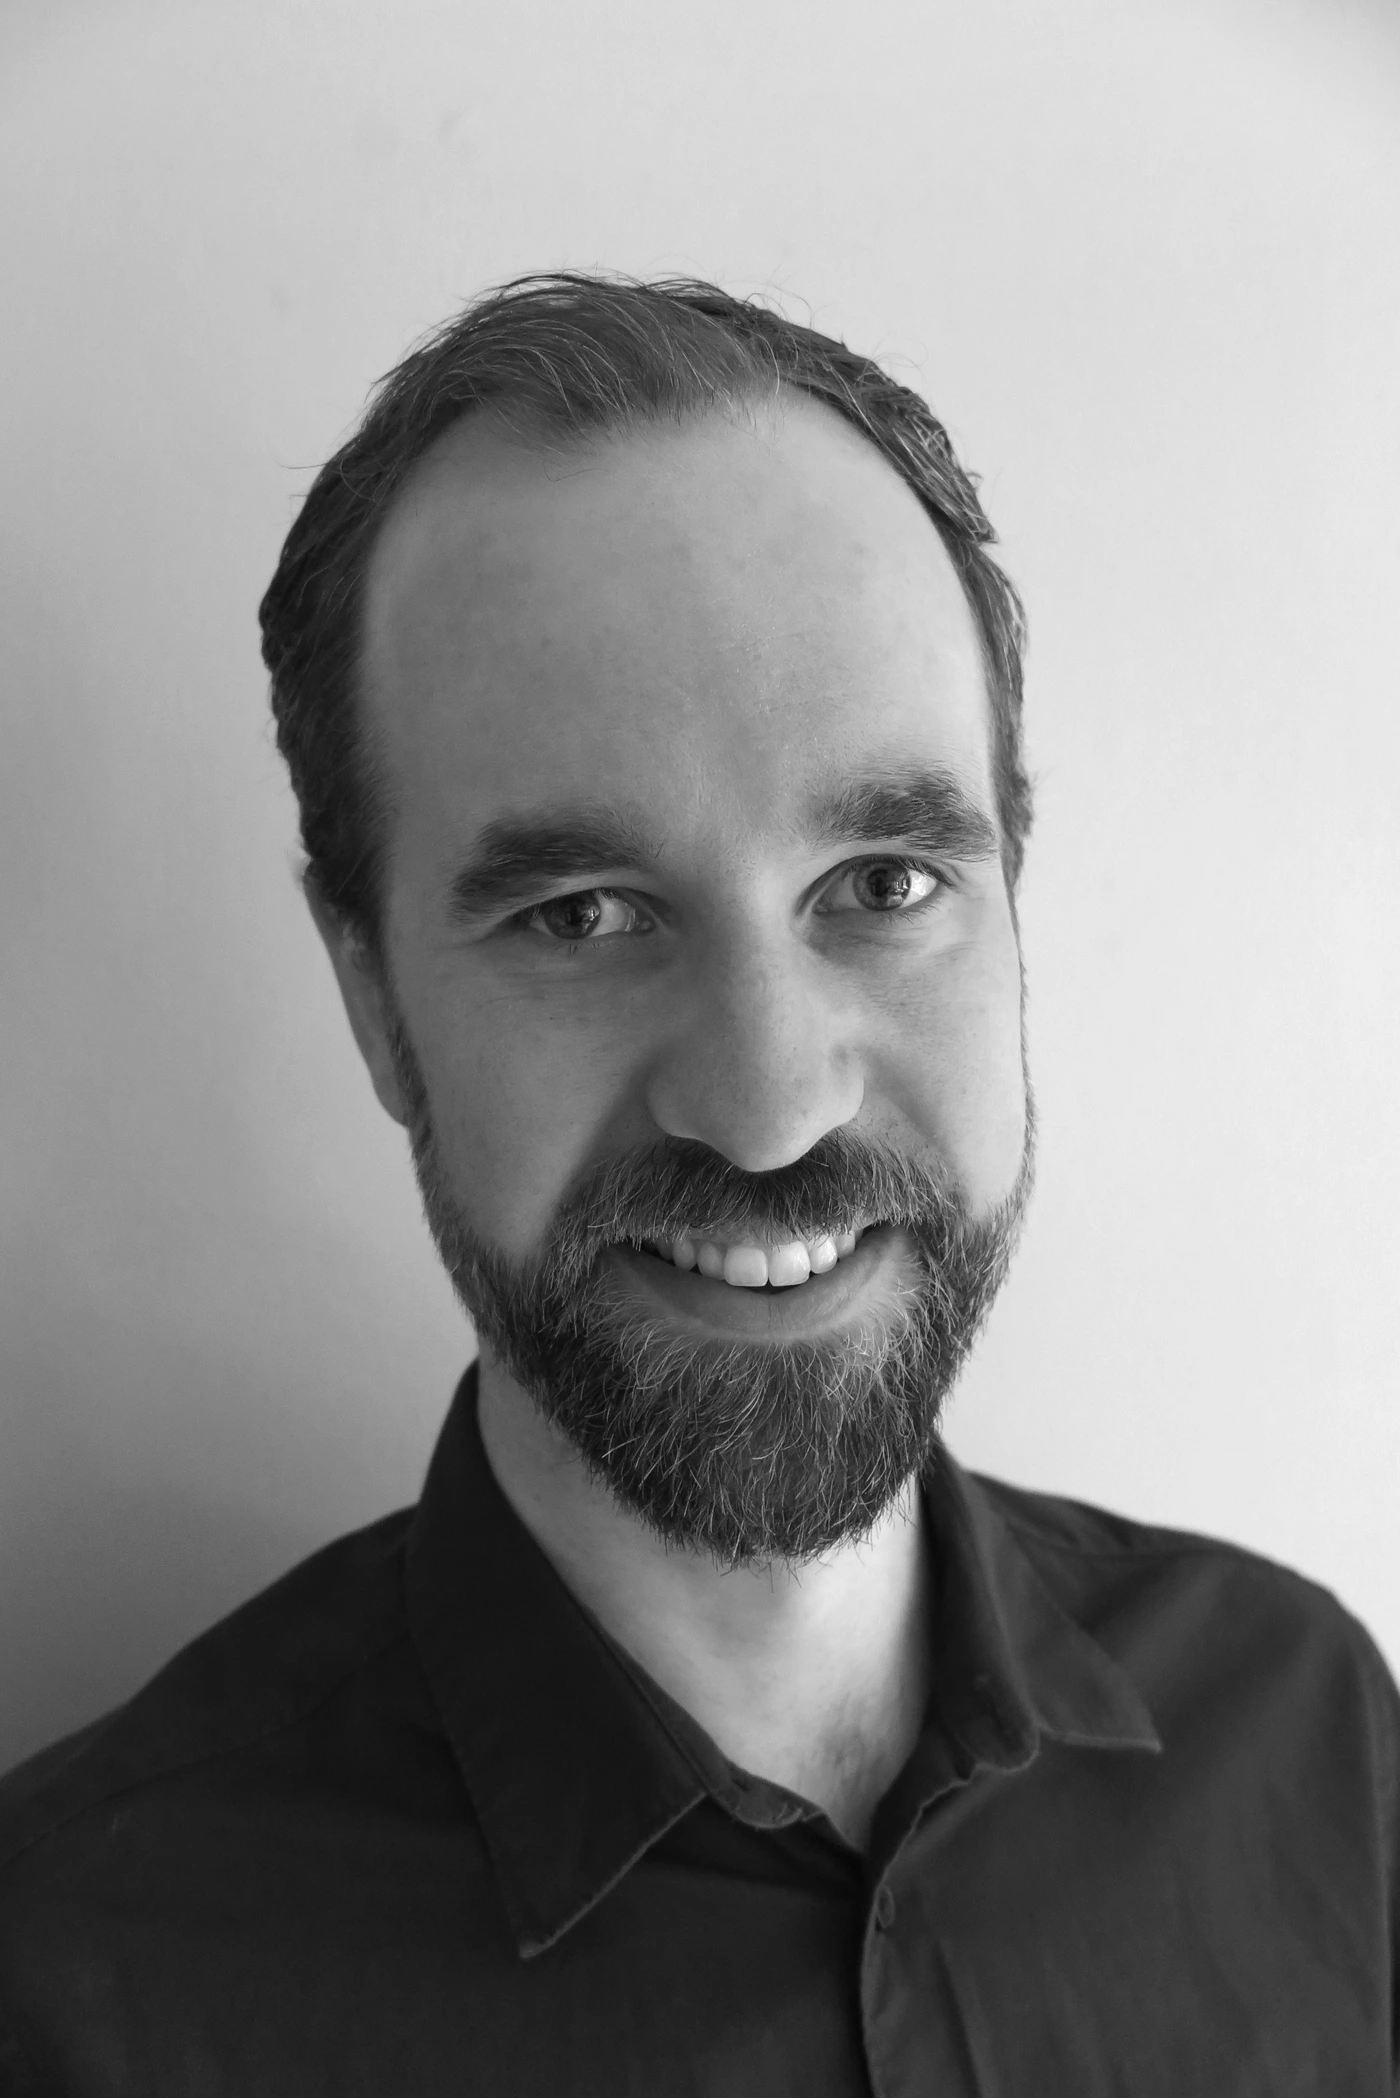
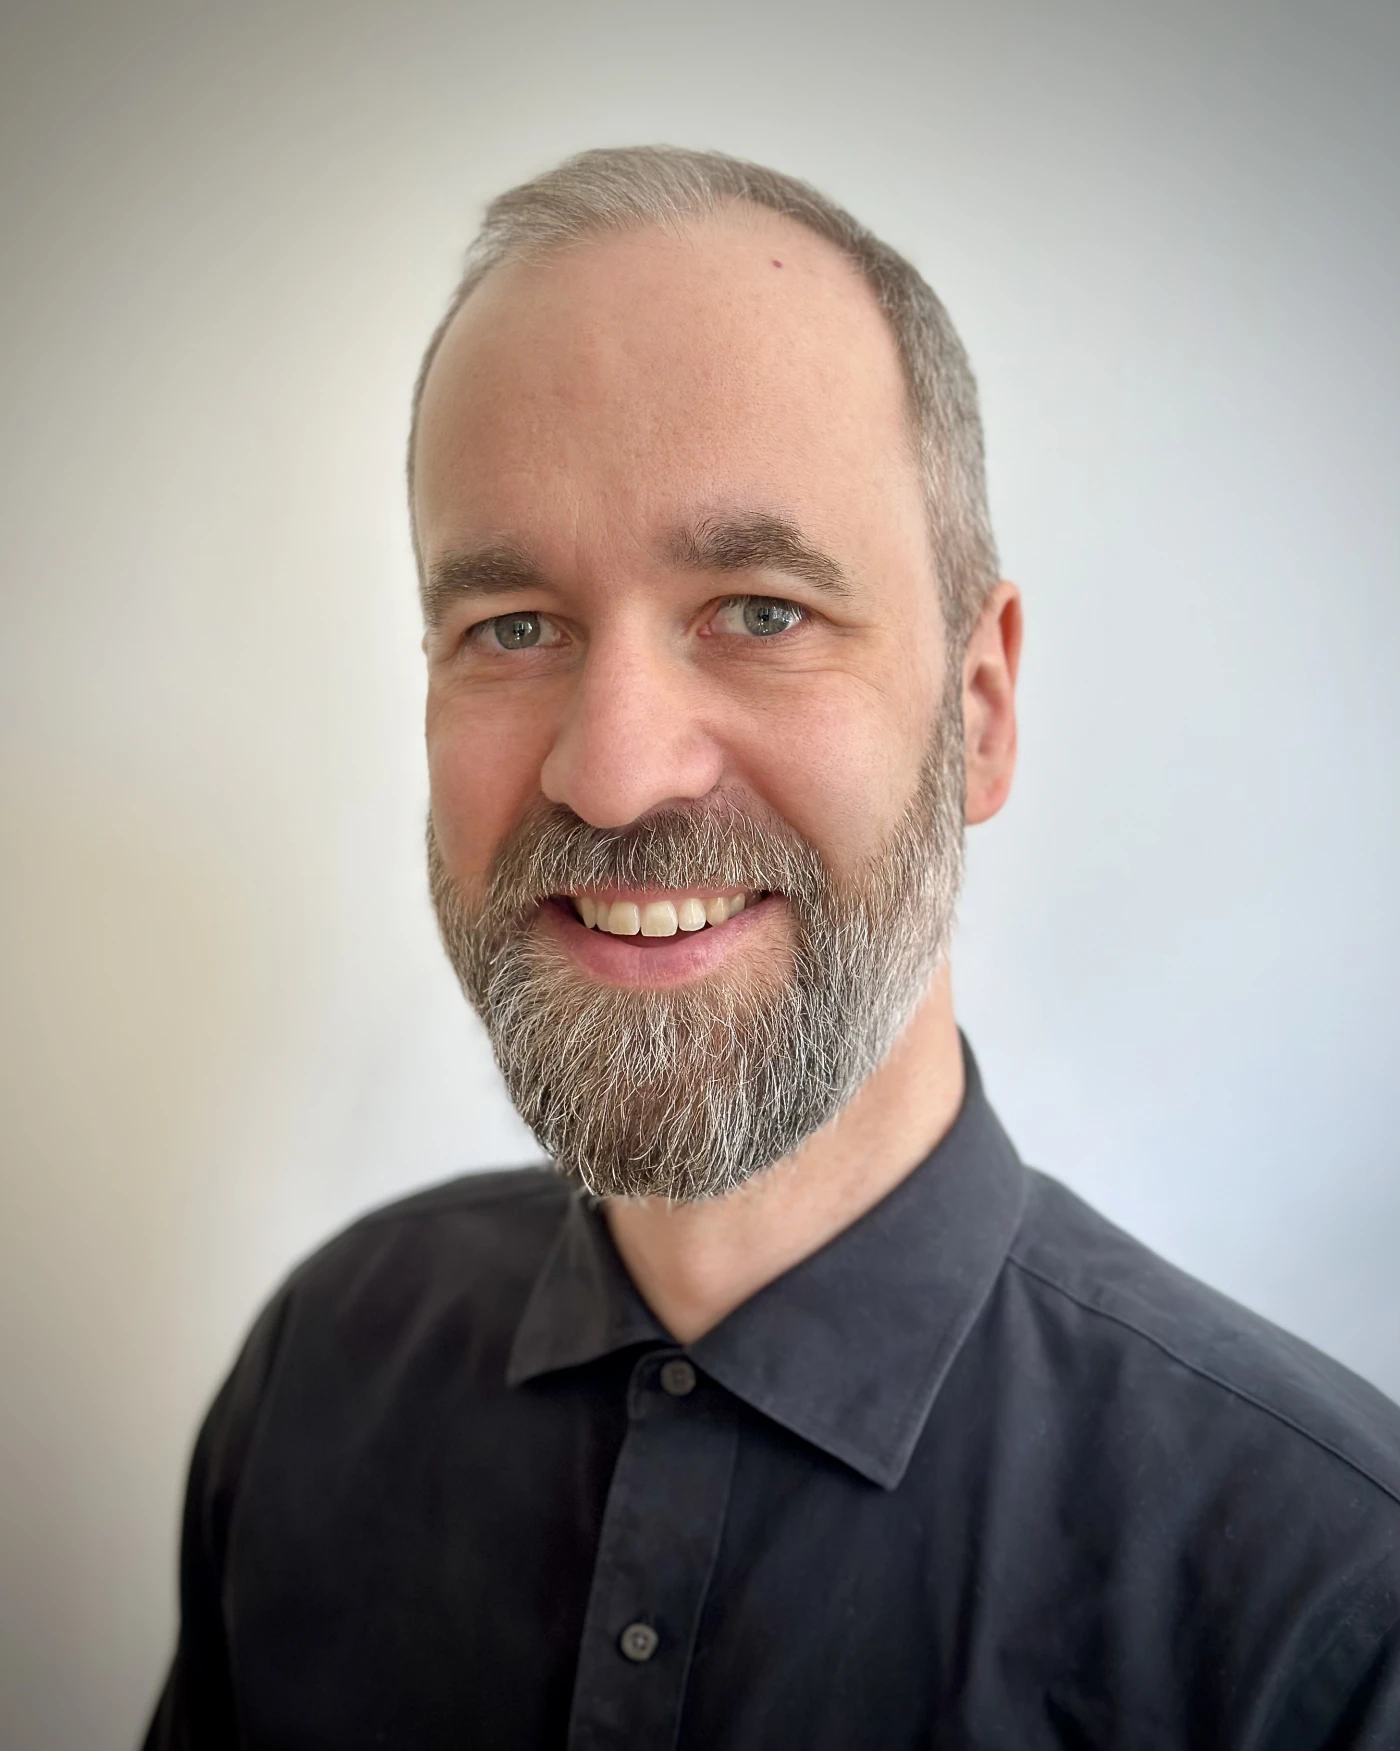
Updated Landing Page

diff --git a/index.html b/index.html
@@ -110,7 +110,7 @@
     <source media="(max-width: 800px)" srcset="/assets/img/prof_pic-800.webp"></source>
     <source media="(max-width: 1400px)" srcset="/assets/img/prof_pic-1400.webp"></source>
     <!-- Fallback to the original file -->
-    <img class="img-fluid z-dept-1 rounded" src="/assets/img/prof_pic.jpg">
+    <img class="img-fluid z-dept-1 rounded" src="/assets/img/prof_pic.jpeg">
   </picture>
 
 </figure>
@@ -118,13 +118,18 @@
           </div>
 
           <div class="clearfix">
-            <p>My research focused on the neural basis of cognitive control and intentional action, how task-relevant information is represented in the brain, and how such representations change under varying demands.  To investigate these issues, I combined functional magnetic resonance imaging (fMRI), machine learning tools such as multivariate decoding and representational similarity analysis, and computational modelling techniques.</p>
+            <p>I work at the <a href="https://www.bmz-digital.global/en/overview-of-initiatives/the-bmz-data-lab/">Datalab</a> of the German Federal Ministry for Economic Cooperation and Development (<a href="https://www.bmz.de/en">BMZ</a>). 
+              Sustainable development is at the core of my work, and I use the tools of data science and AI to help build  
+              a more just world. You can also find me teaching data and AI skills within the public sector. 
+              Data-driven decision-making for all!
+              
 
-<p>I also have a keen interest in laypeople’s views on free will (“Do you think free will exists?”), whether (dis)believing in free will affects our behavior, and how beliefs and attitudes towards free will are related.</p>
+</p>
 
-<p>I firmly believe in open and reproducible science, and in my quest to live up to these ideals I made my research process as transparent as I can, and shared the data and code I produced (some of which you can find <a href="/publications/">here</a>).</p>
+<p>Previously, I worked in academia as a cognitive neuroscientist. My research focused on the neural basis of cognitive control and intentional action, investigating how task-relevant information is represented in the brain. To address these questions, I combined neuroimaging (fMRI) with machine learning and computational modeling techniques. I will always be fascinated by the concept of free will—particularly by laypeople’s views on it (“Do you think free will exists?”). 
+</p>
 
-<p>To get in touch, best find me on <a href="https://www.linkedin.com/in/david-wisniewski">LinkedIn</a>.</p>
+<p>On this website website, you can find my publications on these topics, along with some of the data and code I have produced (Open Science FTW!).</p>
 
           </div>
 
@@ -140,7 +145,7 @@
             </div>
 
             <div class="contact-note">
-              You can reach me best via LinkedIn.
+              If you’d like to get in touch, the best way to reach me is via <a href="https://www.linkedin.com/in/david-wisniewski">LinkedIn</a>.
 
             </div>
             
